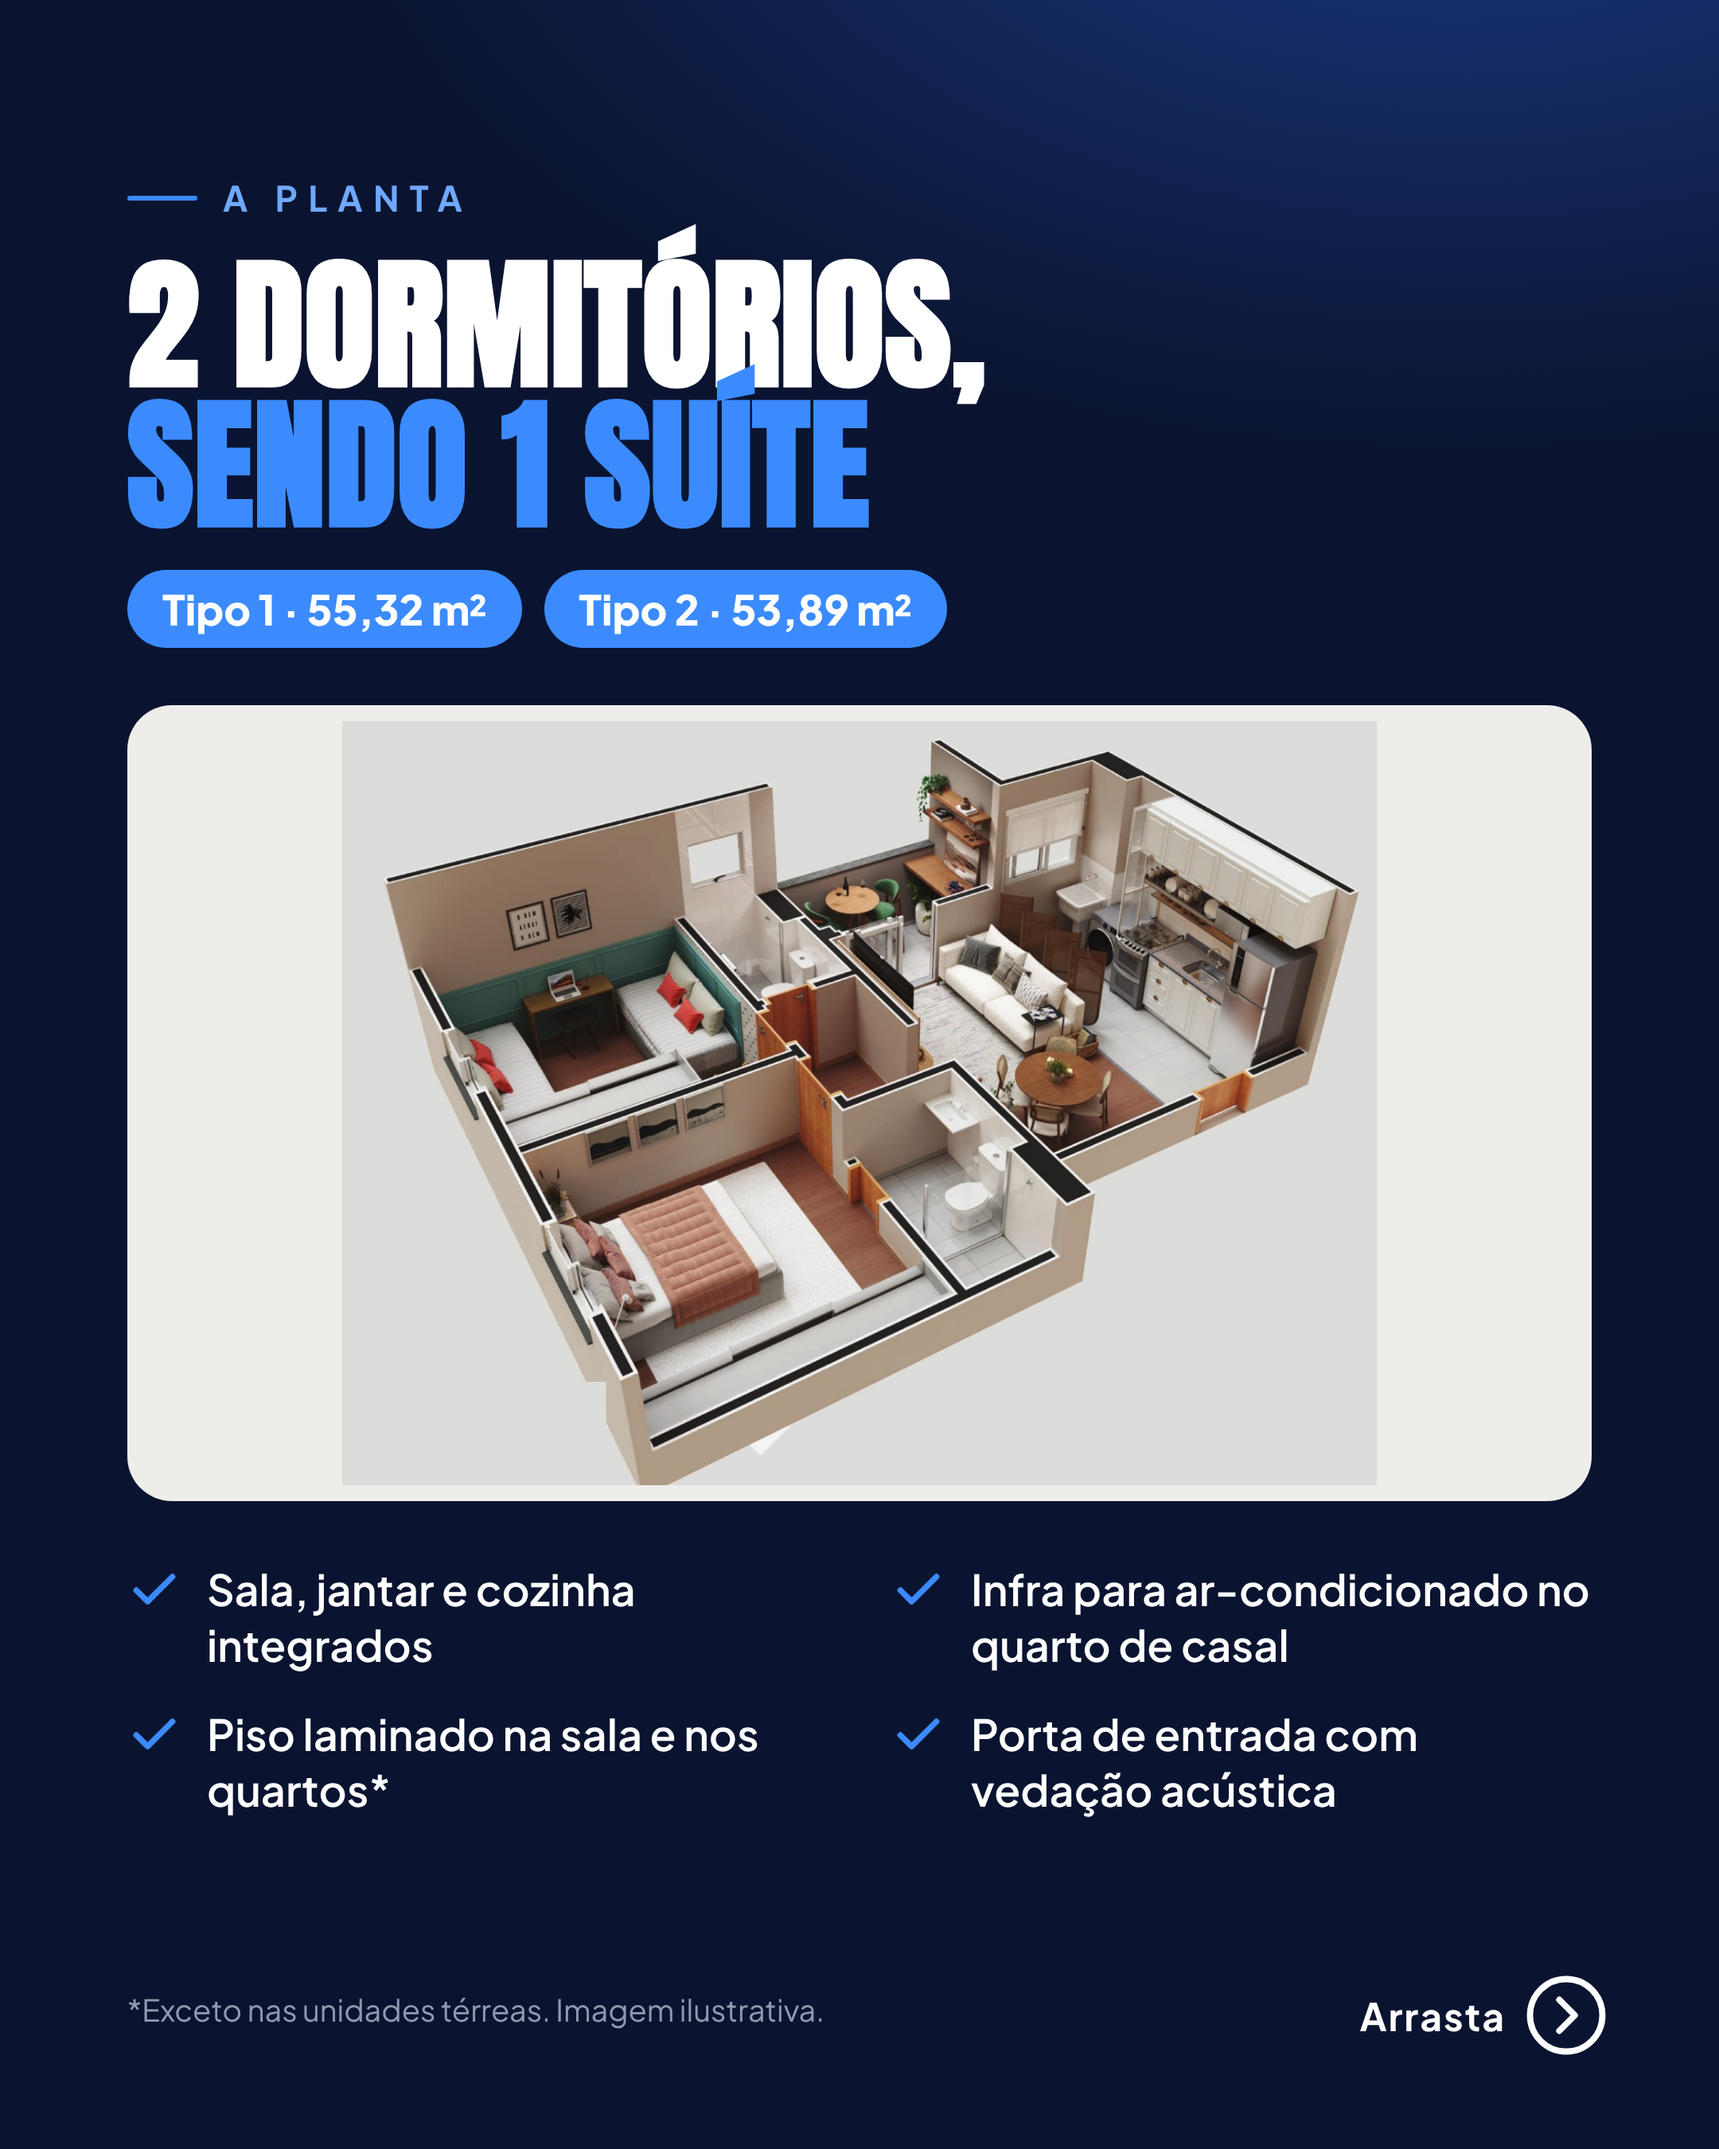
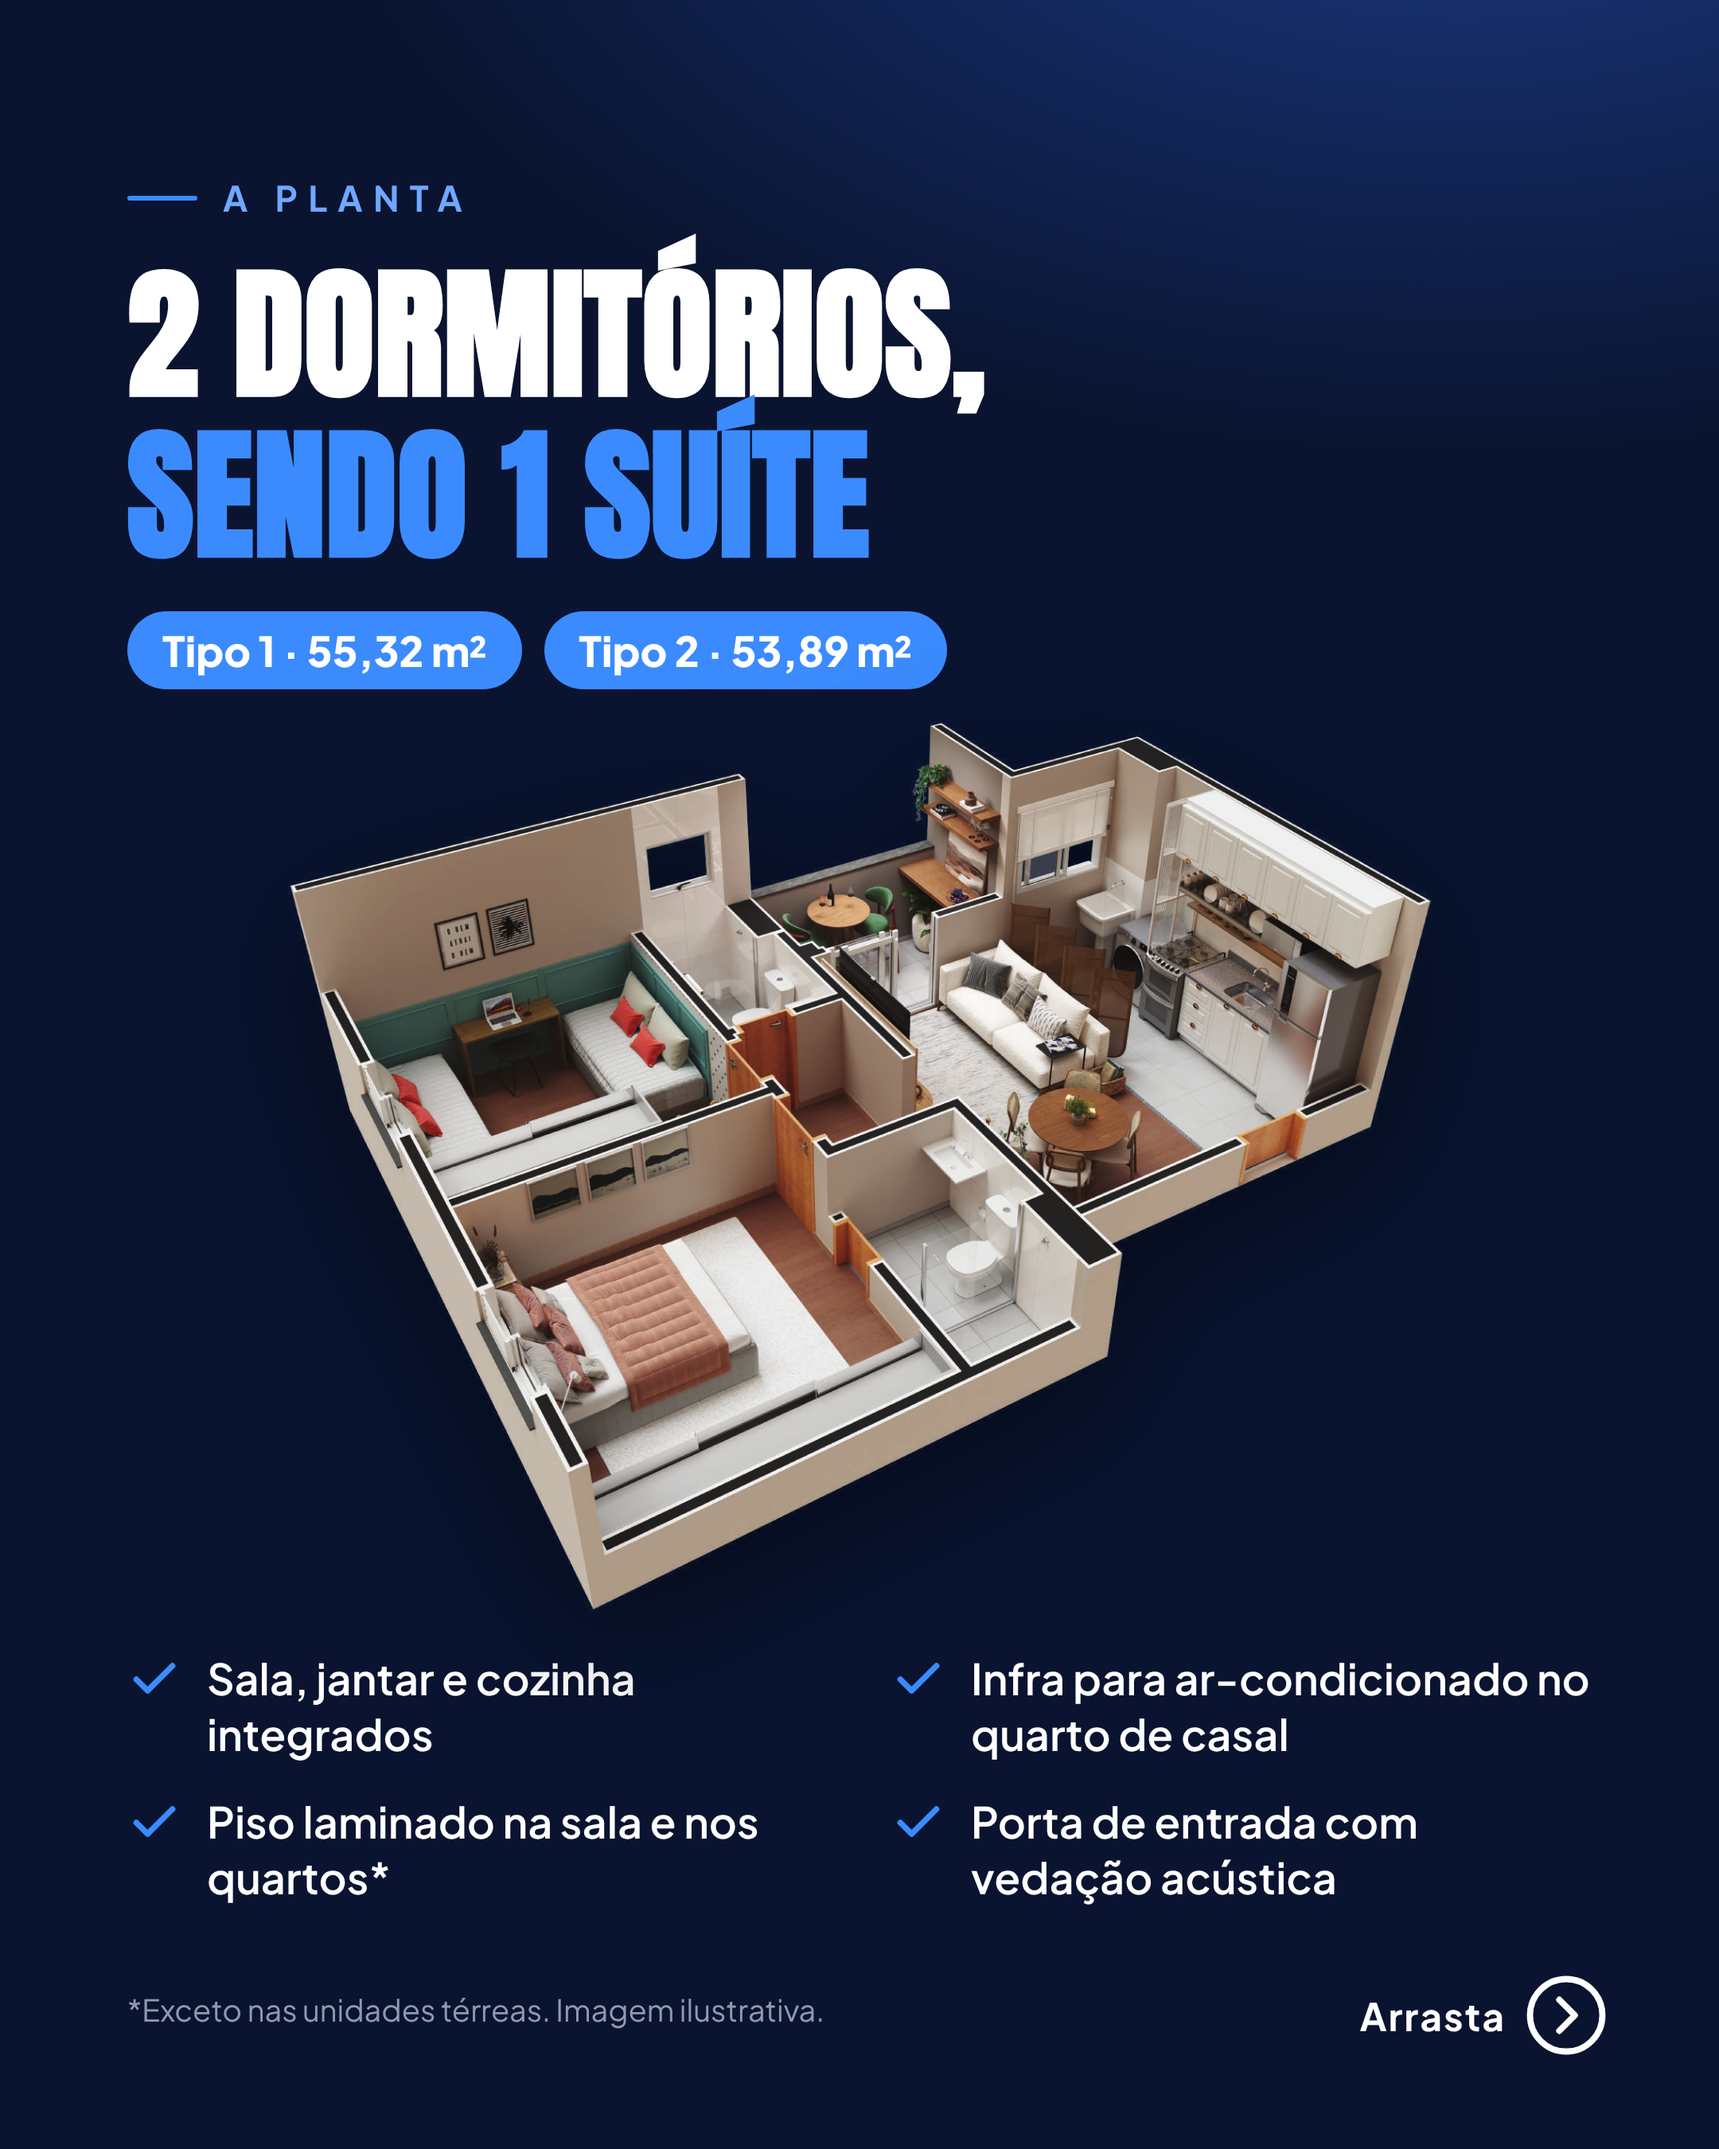
Carrossel OSK: planta 3D sem fundo (máscara original do book) e maior; acento de SUÍTE sem sobrepor a linha de cima
Claude-Session: https://claude.ai/code/session_018X91MFfPMRMPYSAfb3KdfT

diff --git a/docs/posicionamento/carrosseis/2026-10-12-osk/laminas.html b/docs/posicionamento/carrosseis/2026-10-12-osk/laminas.html
@@ -59,9 +59,9 @@
   .lazer .grid { display:grid; grid-template-columns:1fr 1fr 1fr; grid-template-rows:330px 250px; gap:16px; margin-top:44px; }
   .lazer .grid .foto:first-child { grid-column:1 / 4; }
 
-  .planta .card { margin-top:36px; height:500px; background:#EEEDEA; border-radius:28px; display:flex; align-items:center; justify-content:center; overflow:hidden; }
-  .planta .card img { max-width:96%; max-height:96%; }
-  .planta .checks { display:grid; grid-template-columns:1fr 1fr; gap:20px 40px; margin-top:38px; }
+  .planta .card { margin:20px -40px 0; height:560px; display:flex; align-items:center; justify-content:center; }
+  .planta .card img { max-width:100%; max-height:100%; filter:drop-shadow(0 24px 40px rgba(0,0,0,.45)); }
+  .planta .checks { display:grid; grid-template-columns:1fr 1fr; gap:20px 40px; margin-top:24px; }
   .planta .checks div { display:flex; gap:16px; align-items:flex-start; font-size:27px; font-weight:600; line-height:1.3; }
   .planta .checks svg { width:34px; height:34px; flex-shrink:0; fill:none; stroke:var(--azul); stroke-width:2.6; stroke-linecap:round; stroke-linejoin:round; margin-top:1px; }
   .metragem { display:flex; gap:14px; margin-top:22px; }
@@ -157,9 +157,9 @@
 <section class="lamina planta">
   <div class="corpo" style="top:110px">
     <div class="eyebrow">A planta</div>
-    <h2 class="cond titulo" style="font-size:90px">2 dormitórios,<br><em>sendo 1 suíte</em></h2>
+    <h2 class="cond titulo" style="font-size:90px; line-height:1.12">2 dormitórios,<br><em>sendo 1 suíte</em></h2>
     <div class="metragem"><span>Tipo 1 · 55,32 m²</span><span>Tipo 2 · 53,89 m²</span></div>
-    <div class="card"><img src="img/planta-3d.jpg" alt=""></div>
+    <div class="card"><img src="img/planta-3d.png" alt=""></div>
     <div class="checks">
       <div><svg viewBox="0 0 24 24"><path d="M20 6 9 17l-5-5"/></svg>Sala, jantar e cozinha integrados</div>
       <div><svg viewBox="0 0 24 24"><path d="M20 6 9 17l-5-5"/></svg>Infra para ar-condicionado no quarto de casal</div>
